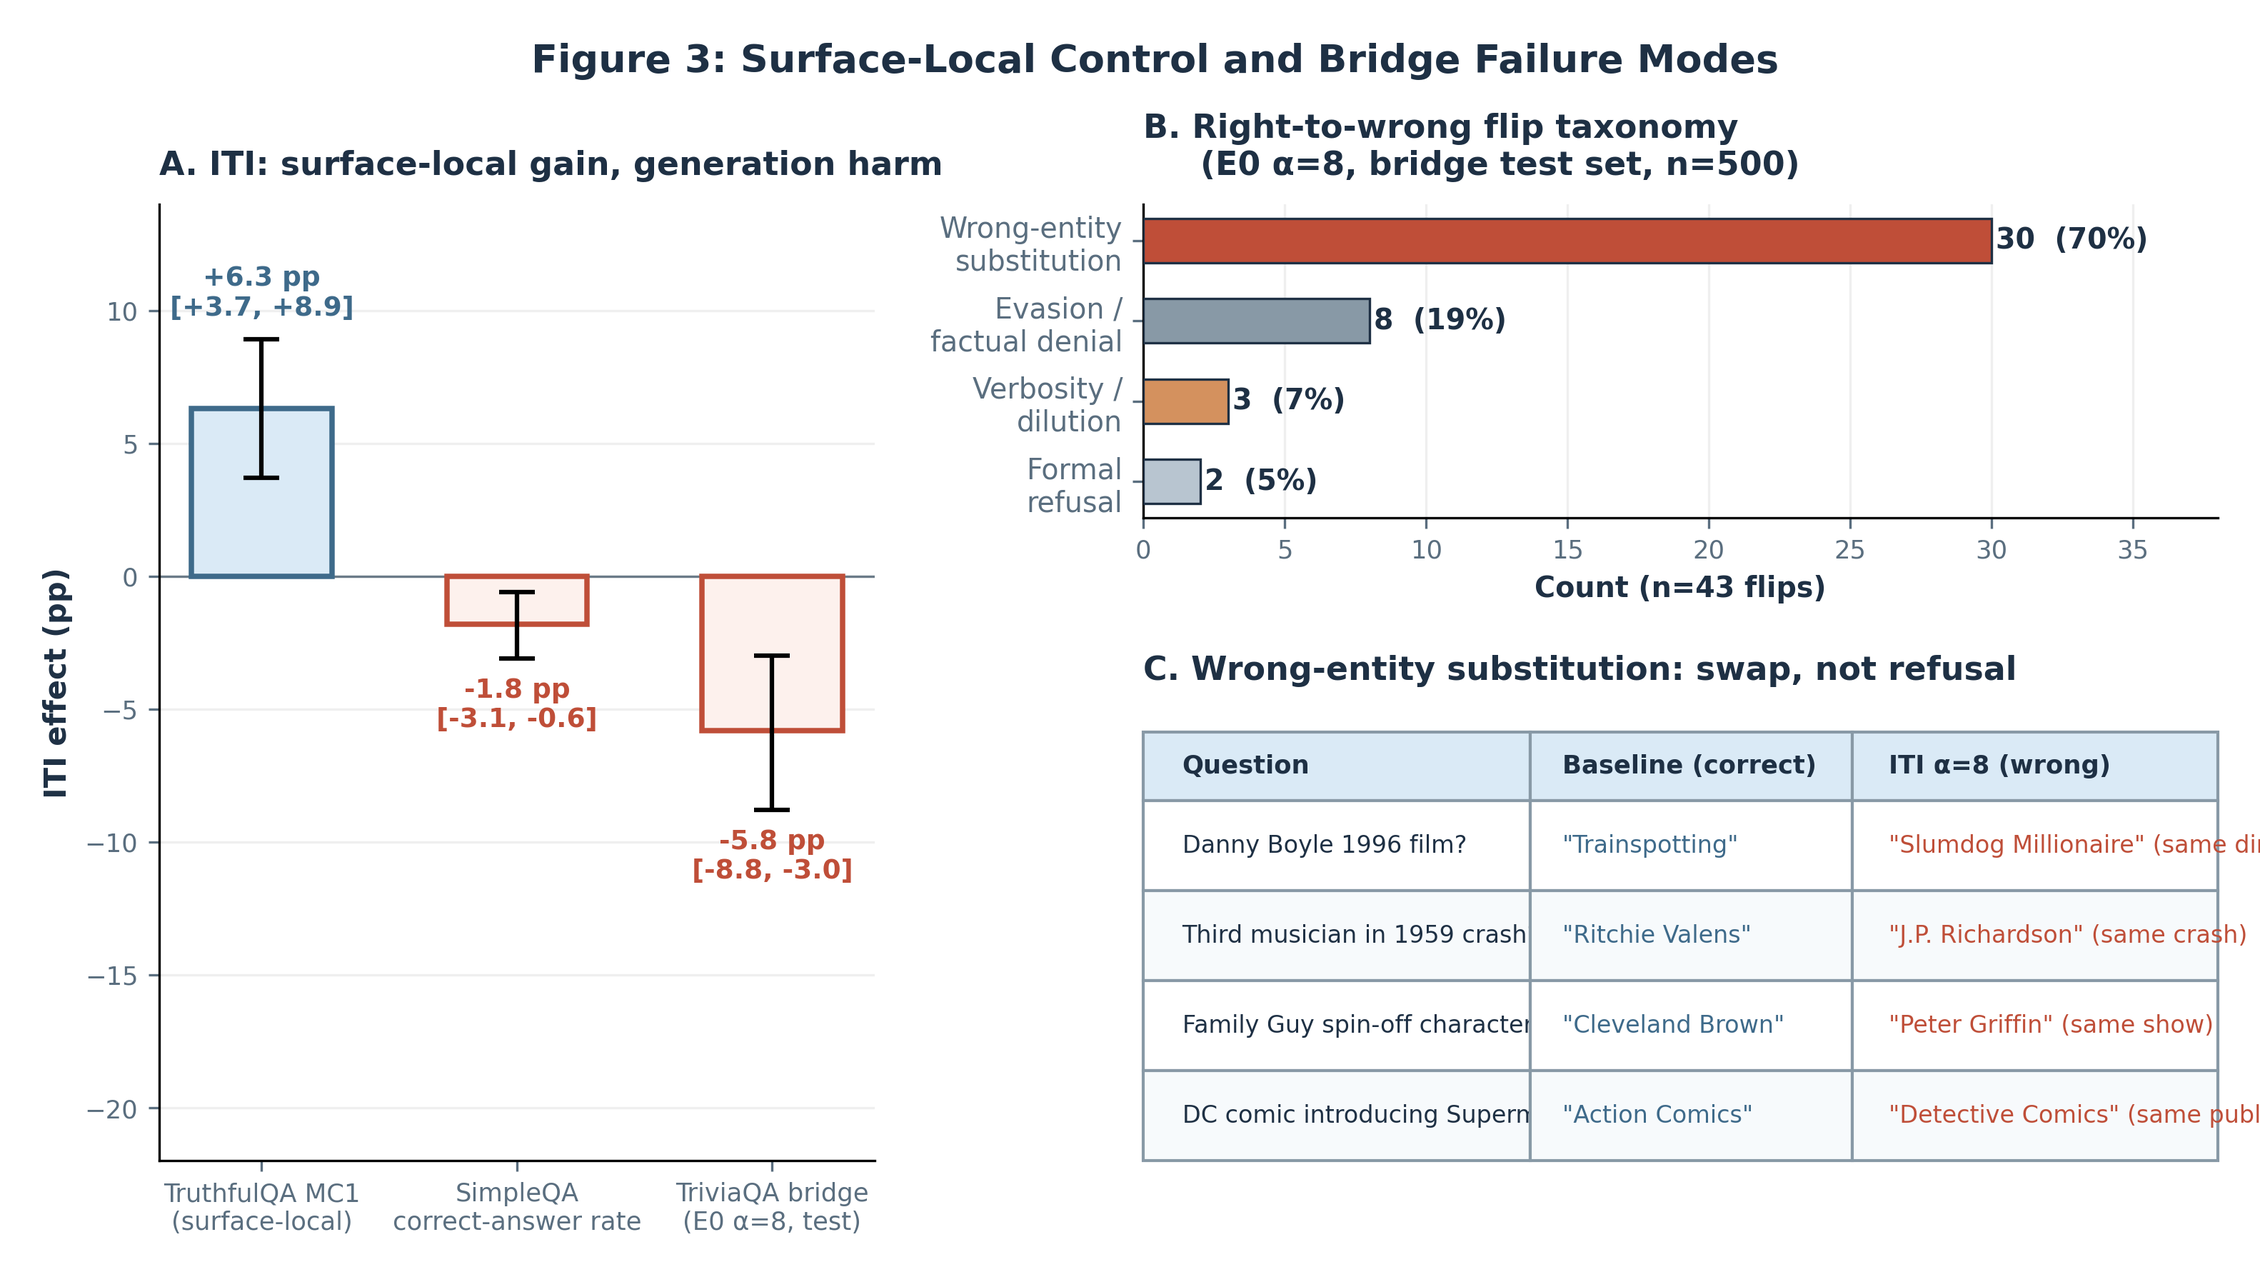
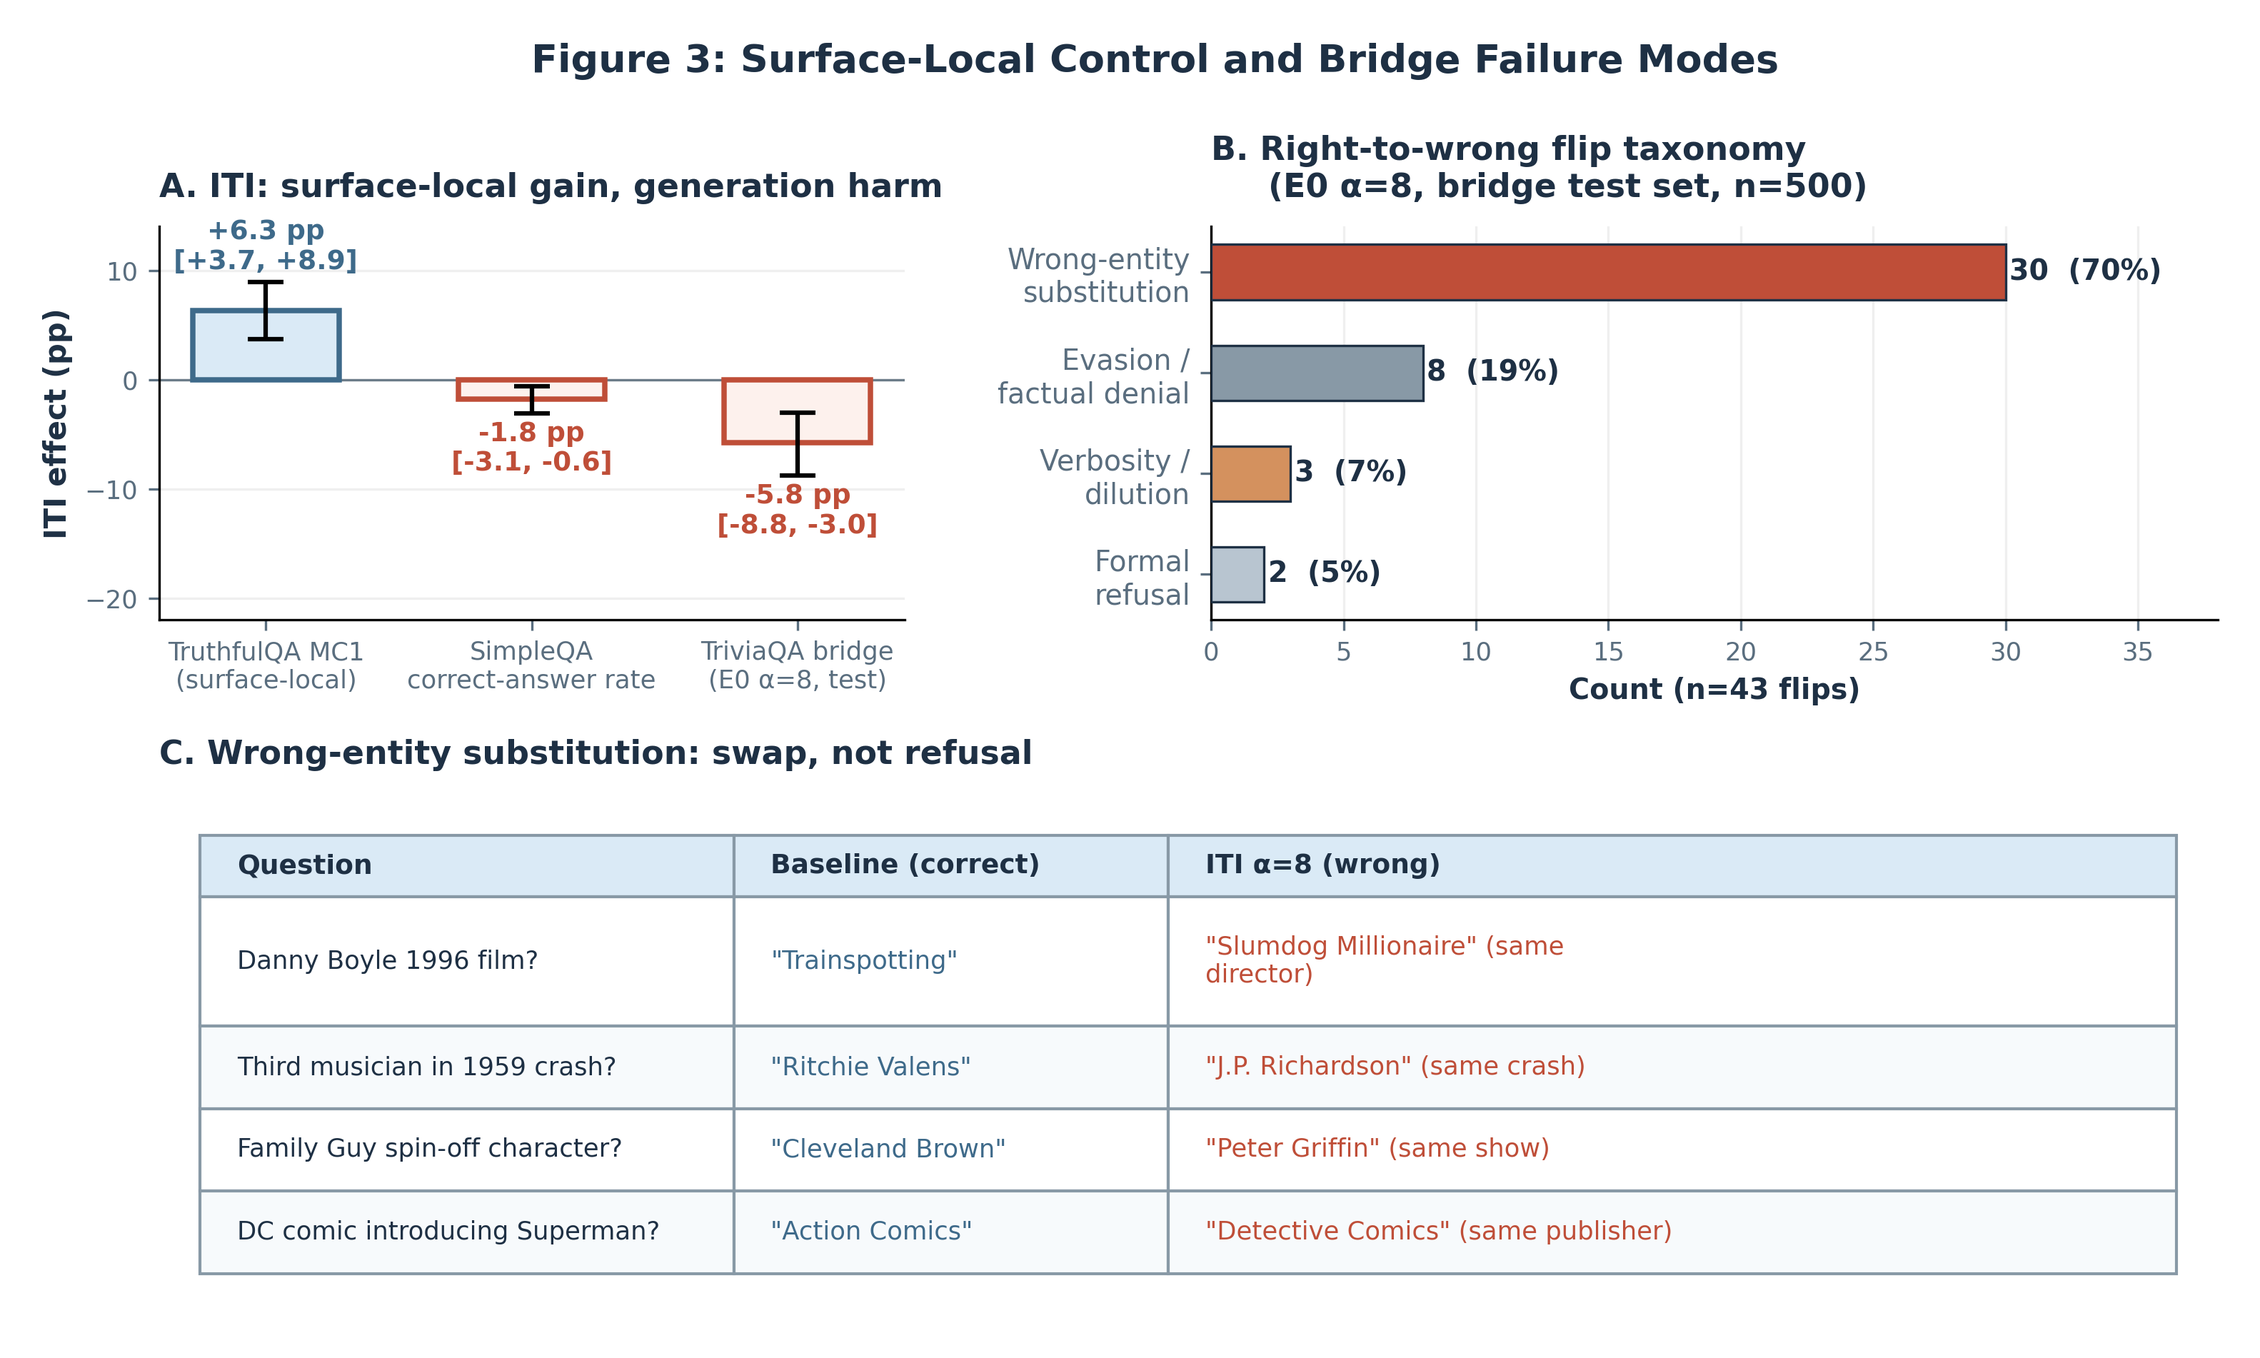
fix(fig3): reflow panel c for manuscript readability
Replace the clipped matplotlib table in Figure 3 Panel C with a wrapped full-width layout and regenerate the rendered asset.

Update the canonical draft audit to mark the readability defect resolved and note that one more full review pass is still needed after the remaining prose cleanup.

diff --git a/paper/draft/figures/fig3_bridge_failure.py b/paper/draft/figures/fig3_bridge_failure.py
@@ -20,13 +20,14 @@ Usage:
 from __future__ import annotations
 
 from pathlib import Path
+from textwrap import fill
 
 import matplotlib
 
 matplotlib.use("Agg")
 import matplotlib.pyplot as plt
 import matplotlib.gridspec as gridspec
-from matplotlib.transforms import Bbox
+from matplotlib.patches import Rectangle
 import numpy as np
 
 # ---------------------------------------------------------------------------
@@ -287,8 +288,10 @@ def draw_panel_b(ax: plt.Axes) -> None:
 # Panel C: Substitution examples (text table)
 # ---------------------------------------------------------------------------
 def draw_panel_c(ax: plt.Axes) -> None:
-    """Render a compact text table of substitution examples."""
+    """Render wrapped substitution examples without table-cell clipping."""
     ax.axis("off")
+    ax.set_xlim(0, 1)
+    ax.set_ylim(0, 1)
 
     ax.set_title(
         "C. Wrong-entity substitution: swap, not refusal",
@@ -299,56 +302,102 @@ def draw_panel_c(ax: plt.Axes) -> None:
         pad=10,
     )
 
-    # Table data
     col_labels = ["Question", "Baseline (correct)", "ITI \u03b1=8 (wrong)"]
-    cell_text = list(SUBSTITUTION_EXAMPLES)
-
-    table = ax.table(
-        cellText=cell_text,
-        colLabels=col_labels,
-        cellLoc="left",
-        colLoc="left",
-        loc="center",
-        bbox=Bbox.from_extents(0.0, 0.0, 1.0, 0.95),
-    )
-
-    table.auto_set_font_size(False)
-    table.set_fontsize(8.1)
-
-    # Style header row
-    for j in range(len(col_labels)):
-        cell = table[0, j]
-        cell.set_facecolor(C_TABLE_HEADER_BG)
-        cell.set_edgecolor(C_TABLE_BORDER)
-        cell.set_text_props(
-            fontweight="bold",
-            fontsize=8.5,
-            color=TITLE_COLOR,
+    wrap_widths = [31, 22, 35]
+    wrapped_rows = [
+        tuple(
+            fill(
+                text,
+                width=width,
+                break_long_words=False,
+                break_on_hyphens=False,
+            )
+            for text, width in zip(row, wrap_widths, strict=True)
         )
-        cell.set_height(0.13)
+        for row in SUBSTITUTION_EXAMPLES
+    ]
 
-    # Style data rows
-    for i in range(1, len(cell_text) + 1):
-        row_bg = BG_COLOR if i % 2 == 1 else C_TABLE_ROW_ALT
-        for j in range(len(col_labels)):
-            cell = table[i, j]
-            cell.set_facecolor(row_bg)
-            cell.set_edgecolor(C_TABLE_BORDER)
-            cell.set_height(0.17)
+    left = 0.02
+    top = 0.92
+    table_width = 0.96
+    table_height = 0.84
+    col_widths = [0.27, 0.22, 0.51]
+    col_x = [left]
+    for width in col_widths[:-1]:
+        col_x.append(col_x[-1] + width * table_width)
 
-            # Color the "correct" column blue, "wrong" column red
-            if j == 1:
-                cell.set_text_props(color=C_TABLE_CORRECT, fontsize=8)
-            elif j == 2:
-                cell.set_text_props(color=C_TABLE_WRONG, fontsize=8)
-            else:
-                cell.set_text_props(color=TITLE_COLOR, fontsize=8)
+    header_units = 1.3
+    row_units = []
+    for row in wrapped_rows:
+        max_lines = max(text.count("\n") + 1 for text in row)
+        row_units.append(max_lines + 0.75)
 
-    # Set column widths
-    col_widths = [0.36, 0.30, 0.34]
-    for j, w in enumerate(col_widths):
-        for i in range(len(cell_text) + 1):
-            table[i, j].set_width(w)
+    total_units = header_units + sum(row_units)
+    header_height = table_height * (header_units / total_units)
+    row_heights = [table_height * (units / total_units) for units in row_units]
+    text_padding = 0.018
+
+    # Header row
+    y_top = top
+    y_bottom = y_top - header_height
+    for x, width, label in zip(col_x, col_widths, col_labels, strict=True):
+        rect = Rectangle(
+            (x, y_bottom),
+            width * table_width,
+            header_height,
+            facecolor=C_TABLE_HEADER_BG,
+            edgecolor=C_TABLE_BORDER,
+            linewidth=1.0,
+            transform=ax.transAxes,
+            clip_on=False,
+        )
+        ax.add_patch(rect)
+        ax.text(
+            x + text_padding,
+            y_bottom + header_height / 2,
+            label,
+            ha="left",
+            va="center",
+            fontsize=9.0,
+            fontweight="bold",
+            color=TITLE_COLOR,
+            transform=ax.transAxes,
+        )
+
+    # Data rows
+    y_top = y_bottom
+    for i, (row, row_height) in enumerate(zip(wrapped_rows, row_heights, strict=True)):
+        y_bottom = y_top - row_height
+        row_bg = BG_COLOR if i % 2 == 0 else C_TABLE_ROW_ALT
+        row_colors = [TITLE_COLOR, C_TABLE_CORRECT, C_TABLE_WRONG]
+
+        for x, width, text, color in zip(
+            col_x, col_widths, row, row_colors, strict=True
+        ):
+            rect = Rectangle(
+                (x, y_bottom),
+                width * table_width,
+                row_height,
+                facecolor=row_bg,
+                edgecolor=C_TABLE_BORDER,
+                linewidth=1.0,
+                transform=ax.transAxes,
+                clip_on=False,
+            )
+            ax.add_patch(rect)
+            ax.text(
+                x + text_padding,
+                y_bottom + row_height / 2,
+                text,
+                ha="left",
+                va="center",
+                fontsize=8.5,
+                color=color,
+                linespacing=1.2,
+                transform=ax.transAxes,
+            )
+
+        y_top = y_bottom
 
 
 # ---------------------------------------------------------------------------
@@ -356,22 +405,22 @@ def draw_panel_c(ax: plt.Axes) -> None:
 # ---------------------------------------------------------------------------
 def main() -> None:
     """Assemble and save the three-panel figure."""
-    fig = plt.figure(figsize=(12.4, 5.8), dpi=300)
+    fig = plt.figure(figsize=(12.4, 6.6), dpi=300)
 
-    # Layout: panels A and B in left column (stacked), panel C in right column
+    # Layout: panels A and B on the top row, Panel C spans the full bottom row.
     gs = gridspec.GridSpec(
         2,
         2,
         figure=fig,
-        width_ratios=[1.0, 1.5],
-        height_ratios=[0.82, 1.18],
-        hspace=0.5,
-        wspace=0.3,
+        width_ratios=[1.0, 1.35],
+        height_ratios=[0.86, 1.14],
+        hspace=0.38,
+        wspace=0.35,
     )
 
-    ax_a = fig.add_subplot(gs[:, 0])  # Panel A spans full left column
+    ax_a = fig.add_subplot(gs[0, 0])  # Panel A top-left
     ax_b = fig.add_subplot(gs[0, 1])  # Panel B top-right
-    ax_c = fig.add_subplot(gs[1, 1])  # Panel C bottom-right
+    ax_c = fig.add_subplot(gs[1, :])  # Panel C full-width bottom row
 
     draw_panel_a(ax_a)
     draw_panel_b(ax_b)

diff --git a/paper/draft/reviews/2026-04-16-research-grade-audit.md b/paper/draft/reviews/2026-04-16-research-grade-audit.md
@@ -21,6 +21,9 @@ Progress updates landed after the initial audit:
 - `6ce91d0` `fix(fig2): add AUROC uncertainty and soften equivalence wording`
 - `9b01ec8` `fix(citations): validate registry against local paper files`
 - `7610fc2` `fix(fig4): simplify measurement figure and align holdout text`
+- Figure 3 Panel C has now been reflowed to a full-width bottom-row layout with wrapped example text, removing the right-edge clipping defect in the rendered asset.
+
+One more full review pass is still needed after the remaining prose cleanup to confirm that the draft is publication-ready end to end.
 
 ## Review Status
 
@@ -30,7 +33,7 @@ Progress updates landed after the initial audit:
 | Section 5 bridge interpretation | overstated inference | Resolved, keep bounded | Manuscript vs [2026-04-13-bridge-phase3-test-results.md](/home/hugo/Documents/Engineering/mech-interp/lab/02-h-neurons/notes/act3-reports/2026-04-13-bridge-phase3-test-results.md:1) | Output-level diagnosis remains strong; explanatory language is now bounded to behavior-level interpretation. |
 | Figure 4 uncertainty logic | presentation/consistency defect | Resolved, keep aligned | Figure script vs manuscript text vs holdout validation note | Panel C now uses the canonical prompt-clustered bootstrap CIs, the stale StrongREJECT table values are fixed, and the redundant Panel D has been removed. |
 | Figure 2 precision signaling | presentation/consistency defect | Resolved, keep bounded | Figure script vs manuscript wording | Detection panel now shows uncertainty and explicitly avoids implying formal equivalence. |
-| Figure 3 readability | presentation/consistency defect | Open | Figure script vs rendered PNG | Panel C table clips at the right edge in the current render. |
+| Figure 3 readability | presentation/consistency defect | Resolved, re-review once | Figure script vs rendered PNG | Panel C has been reflowed into a full-width bottom panel with wrapped example text; the rendered asset no longer clips at the right edge. |
 | Jailbreak measurement framing | unsupported claim | Resolved, keep narrow | Manuscript vs [2026-04-13-jailbreak-measurement-cleanup.md](/home/hugo/Documents/Engineering/mech-interp/lab/02-h-neurons/notes/act3-reports/2026-04-13-jailbreak-measurement-cleanup.md:1) | Safe claim is tie on binary holdout; prefer CSV-v3 for richer structure, not superiority. |
 | BioASQ summary framing | presentation/consistency defect | Resolved, keep narrow | Manuscript vs [bioasq_pipeline_audit.md](/home/hugo/Documents/Engineering/mech-interp/lab/02-h-neurons/data/gemma3_4b/intervention/bioasq/bioasq_pipeline_audit.md:1) | Safe claim is endpoint-flat but behaviorally active, not a clean null. |
 | Citation registry integrity | unsupported claim | Resolved, validator added | [registry.json](/home/hugo/Documents/Engineering/mech-interp/lab/02-h-neurons/paper/citations/registry.json:1) vs local `papers/` files | Registry mappings were repaired and a dedicated validator plus tests now guard against recurrence. |
@@ -40,7 +43,7 @@ Progress updates landed after the initial audit:
 
 The draft now has a coherent evidence hierarchy and a defensible paper-level thesis. The strongest scientific core remains intact: the FaithEval neuron-versus-SAE dissociation, the held-out TriviaQA bridge externality result, and the post-cleanup jailbreak measurement story all survive audit.
 
-The main remaining blockers are narrower and more concrete than before. The earlier Section 5 inferential-discipline issue has been resolved in the manuscript by bounding the bridge interpretation to behavior-level claims, and the Figure 2, Figure 4, and citation-registry defects flagged in the first pass have now been fixed in committed follow-up work. The top remaining risks are Figure 3's clipped table and the paper's still-slow early narrative economy in Sections 2 and 3.
+The main remaining blockers are narrower and more concrete than before. The earlier Section 5 inferential-discipline issue has been resolved in the manuscript by bounding the bridge interpretation to behavior-level claims, and the Figure 2, Figure 3, Figure 4, and citation-registry defects flagged in the first pass have now been fixed in follow-up work. The top remaining substantive risk is the paper's still-slow early narrative economy in Sections 2 and 3, followed by ordinary regression risk that should be checked in one more full review pass.
 
 ## Did Finding 1 Actually Land?
 
@@ -55,16 +58,7 @@ Residual risk: later edits could easily reintroduce D7 inflation, but D7 is no l
 
 ## Open Findings
 
-### 1. Medium: Figure 3 still has a rendered readability defect in Panel C
-
-Type: presentation/consistency defect  
-Checked: figure script vs rendered figure
-
-- Figure 3 is conceptually the strongest main-text figure, but the current rendered table in Panel C clips at the right boundary, stemming from the current full-width table layout in [fig3_bridge_failure.py](/home/hugo/Documents/Engineering/mech-interp/lab/02-h-neurons/paper/draft/figures/fig3_bridge_failure.py:302) and the rendered asset [fig3_bridge_failure.png](/home/hugo/Documents/Engineering/mech-interp/lab/02-h-neurons/paper/draft/figures/fig3_bridge_failure.png).
-
-Required revision direction: reflow Figure 3 Panel C so the example text remains legible at manuscript scale.
-
-### 2. Medium-High: Sections 2 and 3 still front-load too much governance prose relative to the evidence
+### 1. Medium-High: Sections 2 and 3 still front-load too much governance prose relative to the evidence
 
 Type: presentation/consistency defect  
 Checked: reader-facing prose vs evidence spine
@@ -92,6 +86,12 @@ The clean result after the GPT-4o rerun is that CSV-v3 and StrongREJECT tie on h
 The remaining risk here is rhetorical drift. The science is stronger when phrased as "measurement changed what the paper could honestly conclude" rather than as a generic story of repeated evaluator reversals.
 
 The figure and manuscript alignment issue that was open in the first pass is now fixed. [fig4_measurement.py](/home/hugo/Documents/Engineering/mech-interp/lab/02-h-neurons/paper/draft/figures/fig4_measurement.py:1) now pulls Panel C intervals from the canonical holdout bootstrap artifact, the rendered figure has been simplified to three panels, and the Section 6 table now reports the post-rerun StrongREJECT-GPT-4o tie consistently. This landed in commit `7610fc2` (`fix(fig4): simplify measurement figure and align holdout text`).
+
+### Figure 3 readability defect is fixed, but should be checked once more in context
+
+The earlier Panel C clipping defect in Figure 3 has now been addressed in [fig3_bridge_failure.py](/home/hugo/Documents/Engineering/mech-interp/lab/02-h-neurons/paper/draft/figures/fig3_bridge_failure.py:1) by replacing the cramped full-width `matplotlib` table with a manual wrapped layout and by giving Panel C the full bottom row of the figure. The regenerated [fig3_bridge_failure.png](/home/hugo/Documents/Engineering/mech-interp/lab/02-h-neurons/paper/draft/figures/fig3_bridge_failure.png) no longer cuts off the wrong-answer examples at the right edge.
+
+This finding should now be treated as resolved. The remaining task is not another redesign but one more full-manuscript review pass to confirm the figure still reads well at manuscript scale alongside the surrounding prose and other figures.
 
 ### Figure 2 no longer overstates equivalence
 
@@ -130,7 +130,7 @@ This finding should now be treated as resolved, with the remaining risk being re
 
 ## Figure And Table Audit
 
-- `Figure 3` earns inclusion and is the closest main-text figure to publication-ready. Its only important scientific caveat is that the failure-mode taxonomy is descriptive and single-rater; its current practical defect is the clipped Panel C table.
+- `Figure 3` earns inclusion and is the closest main-text figure to publication-ready. Its important scientific caveat is that the failure-mode taxonomy is descriptive and single-rater; the earlier Panel C clipping defect has now been fixed, with one more end-to-end review pass still recommended.
 - `Figure 2` now earns inclusion more cleanly: Panel A carries uncertainty and no longer over-implies formal equivalence.
 - `Figure 4` now earns inclusion more cleanly: the holdout panel is aligned with the canonical bootstrap artifact and the redundant fourth panel has been removed.
 - `Figure 1` is conceptually useful but over-detailed for an opener; its stage labels should do less.
@@ -161,8 +161,8 @@ This version keeps FaithEval as the primary anchor, treats bridge as strong outp
 
 ## Priority Order
 
-1. Fix the Figure 3 Panel C clipping defect.
-2. Compress Sections 2 and 3 so the reader reaches the evidence spine faster.
+1. Compress Sections 2 and 3 so the reader reaches the evidence spine faster.
+2. Run one more full review pass after that cleanup to check for narrative and figure-level regressions.
 3. Guard against bridge-claim and D7 regression, but do not spend more main-text budget promoting either.
 4. Keep the new citation-registry validator in the loop for any future bibliography edits.
 
